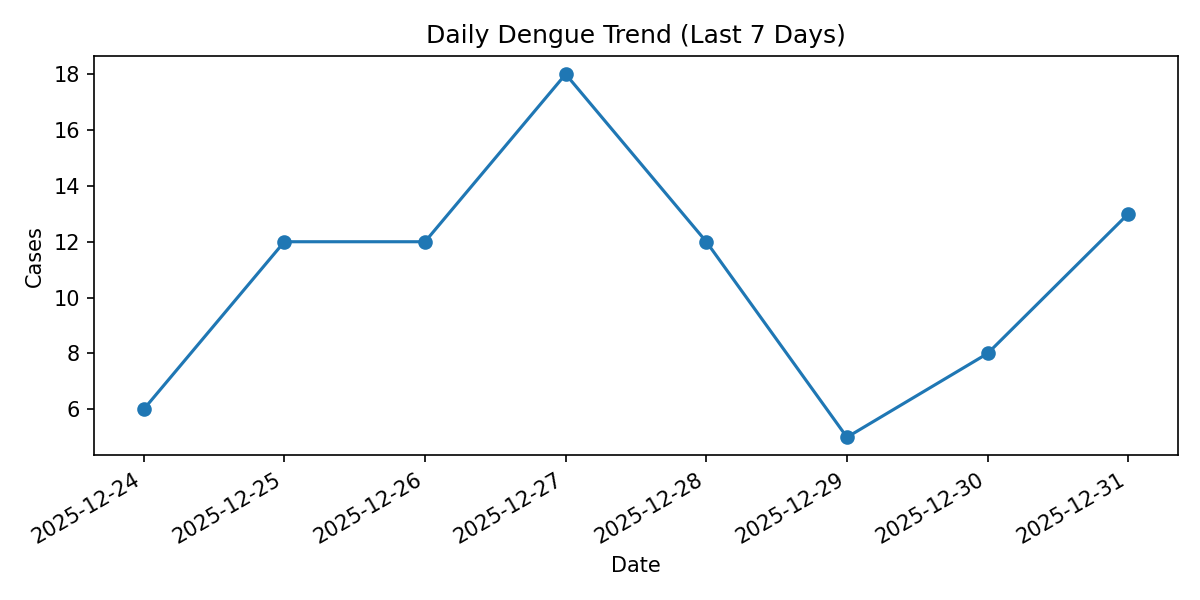
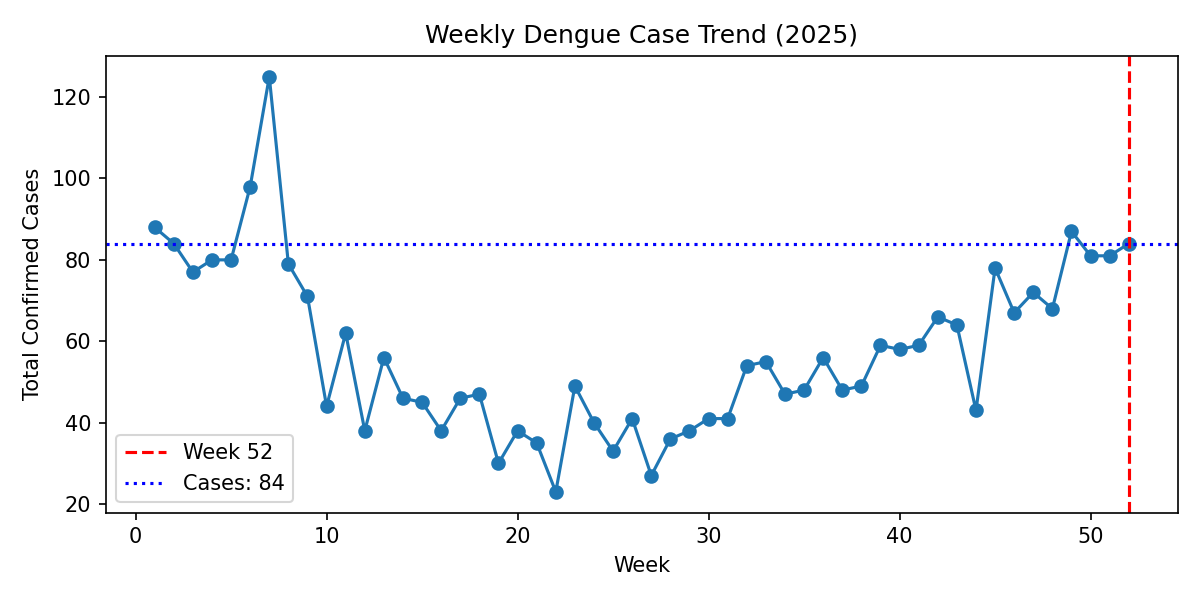
Update report generation script to use `python3` and refresh week 52 report outputs.

diff --git a/pages/api/report/generate.js b/pages/api/report/generate.js
@@ -19,7 +19,7 @@ export default function handler(req, res) {
   // --hist_days default to 0 if not provided
   const histDays = days || 0;
 
-  const command = `python "${pythonScript}" --week ${week} --predictions "${predictionsPath}" --csv "${csvPath}" --outdir "${outDir}" --hist_days ${histDays}`;
+  const command = `python3 "${pythonScript}" --week ${week} --predictions "${predictionsPath}" --csv "${csvPath}" --outdir "${outDir}" --hist_days ${histDays}`;
 
   exec(command, (error, stdout, stderr) => {
     if (error) {
